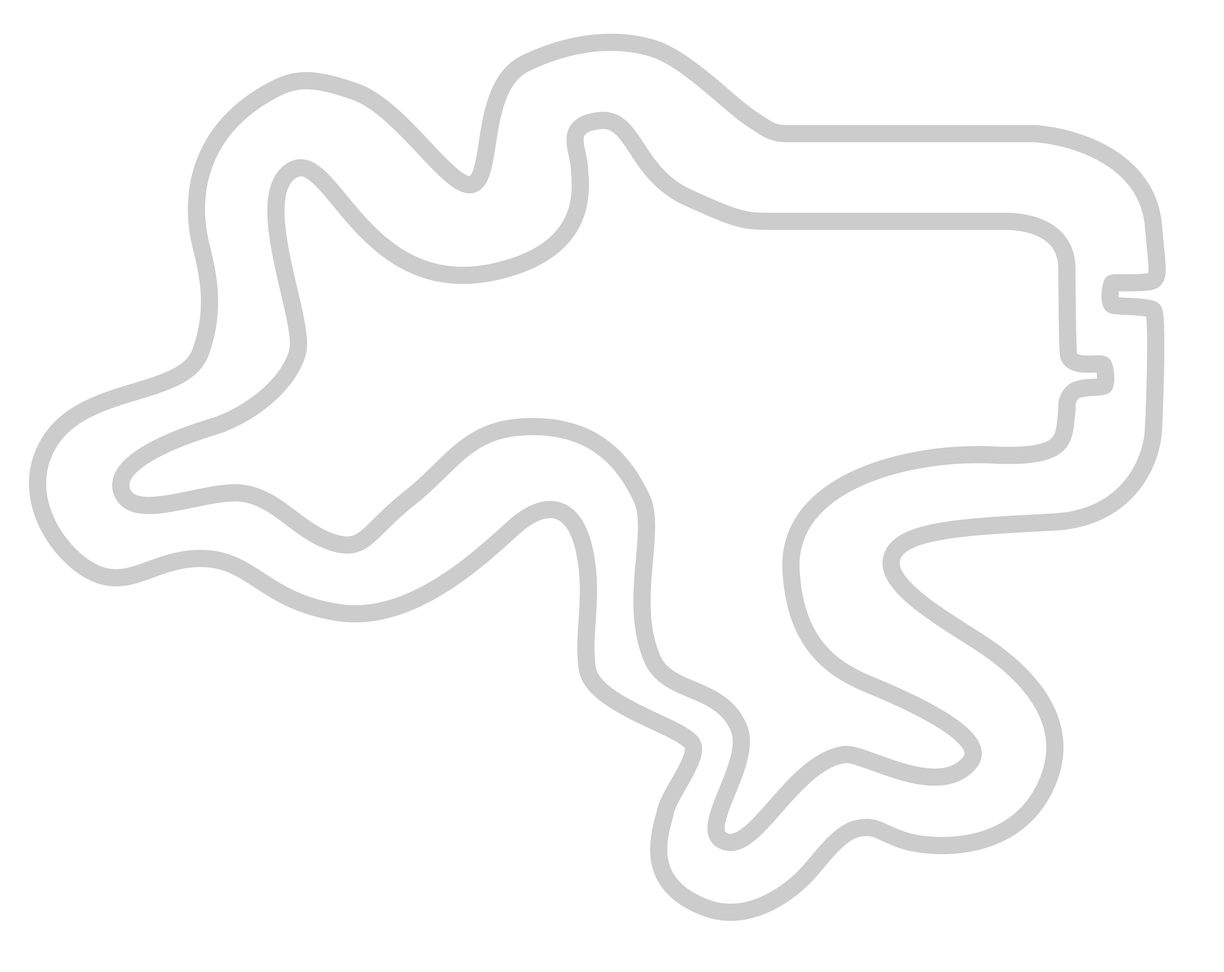
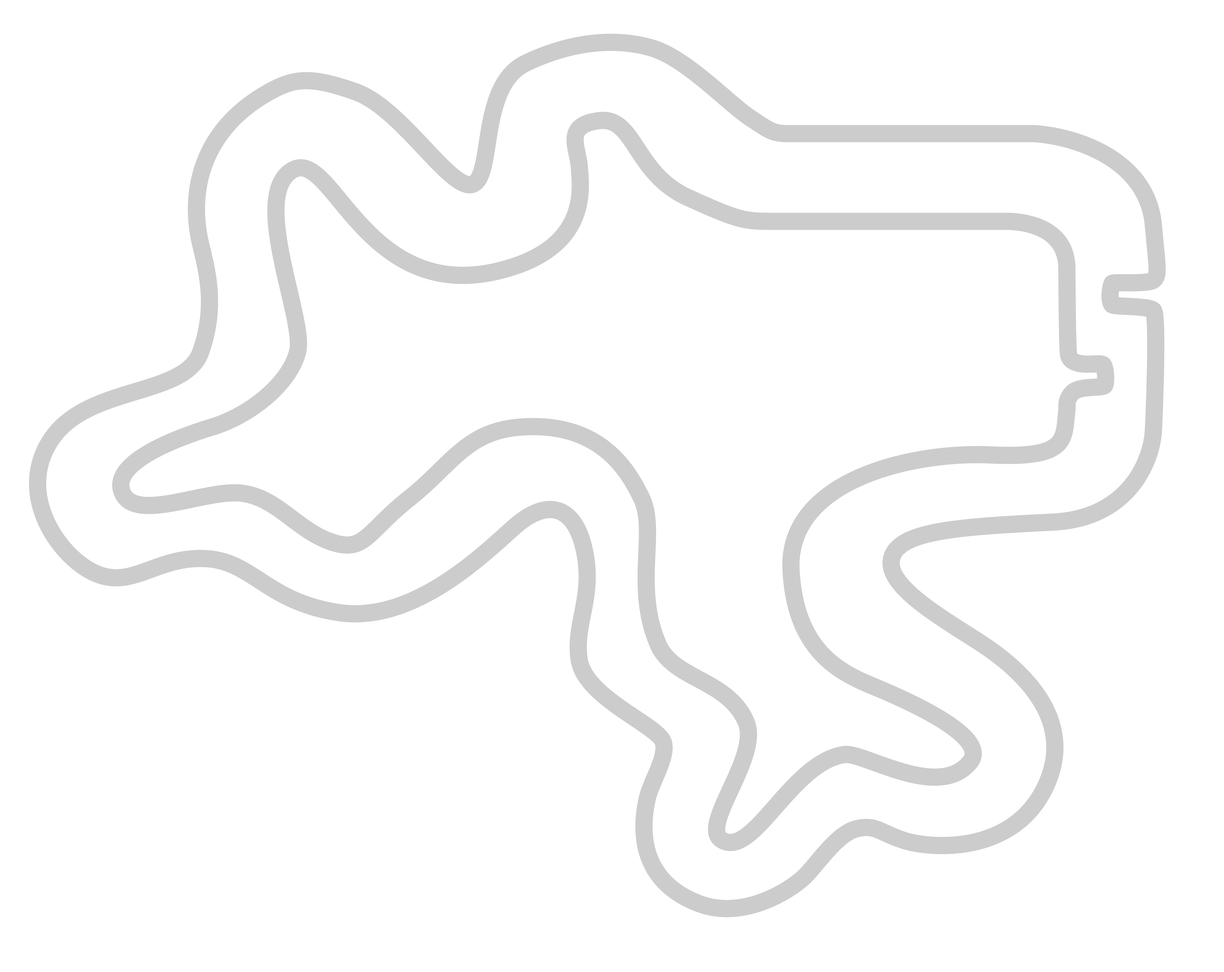
fix chicane narrowness

Changed region(s): [[0.4679, 0.5888, 0.6238, 0.9298], [0.5926, 0.8988, 0.6238, 0.9607]]

diff --git a/js/map/data/track2.js b/js/map/data/track2.js
@@ -1,1 +1,1 @@
-timedTracks.track2 = {"env":{"wall":[{"x":6996,"y":3028,"vertices":[{"x":7246,"y":2893},{"x":6992,"y":3091},{"x":6750,"y":3101}]},{"x":6554,"y":3034,"vertices":[{"x":5791,"y":3069},{"x":7246,"y":2893},{"x":6750,"y":3101},{"x":6451,"y":3133}]},{"x":6144,"y":3131,"vertices":[{"x":5791,"y":3069},{"x":6451,"y":3133},{"x":6191,"y":3190}]},{"x":5942,"y":3191,"vertices":[{"x":6191,"y":3190},{"x":5843,"y":3315},{"x":5791,"y":3069}]},{"x":7184,"y":3017,"vertices":[{"x":7319,"y":3047},{"x":7246,"y":3069},{"x":7158,"y":3086},{"x":6992,"y":3091},{"x":7246,"y":2893}]},{"x":6495,"y":1600,"vertices":[{"x":7205,"y":1745},{"x":5625,"y":1650},{"x":5589,"y":1504},{"x":5625,"y":1497},{"x":7053,"y":1497},{"x":7205,"y":1523},{"x":7319,"y":1578}]},{"x":7344,"y":2297,"vertices":[{"x":7319,"y":1578},{"x":7398,"y":1650},{"x":7442,"y":1745},{"x":7468,"y":1849},{"x":7468,"y":2781},{"x":7447,"y":2893},{"x":7421,"y":2960},{"x":7375,"y":3007},{"x":7319,"y":3047},{"x":7246,"y":2893},{"x":7205,"y":1745}]},{"x":6011,"y":3211,"vertices":[{"x":5933,"y":3147},{"x":6167,"y":3194},{"x":5933,"y":3291}]},{"x":5890,"y":3269,"vertices":[{"x":5933,"y":3291},{"x":5804,"y":3368},{"x":5933,"y":3147}]},{"x":5698,"y":3354,"vertices":[{"x":5419,"y":3463},{"x":5933,"y":3147},{"x":5804,"y":3368},{"x":5703,"y":3463}]},{"x":5584,"y":3495,"vertices":[{"x":5419,"y":3463},{"x":5703,"y":3463},{"x":5631,"y":3560}]},{"x":5547,"y":3559,"vertices":[{"x":5419,"y":3463},{"x":5631,"y":3560},{"x":5591,"y":3653}]},{"x":5526,"y":3629,"vertices":[{"x":5419,"y":3463},{"x":5591,"y":3653},{"x":5568,"y":3770}]},{"x":5446,"y":3801,"vertices":[{"x":5320,"y":4071},{"x":5419,"y":3463},{"x":5568,"y":3770},{"x":5564,"y":3912}]},{"x":5486,"y":4023,"vertices":[{"x":5320,"y":4071},{"x":5564,"y":3912},{"x":5575,"y":4087}]},{"x":5497,"y":4119,"vertices":[{"x":5320,"y":4071},{"x":5575,"y":4087},{"x":5596,"y":4199}]},{"x":5508,"y":4317,"vertices":[{"x":5548,"y":4630},{"x":5320,"y":4071},{"x":5596,"y":4199},{"x":5646,"y":4344}]},{"x":5632,"y":4477,"vertices":[{"x":5548,"y":4630},{"x":5646,"y":4344},{"x":5703,"y":4457}]},{"x":5685,"y":4551,"vertices":[{"x":5548,"y":4630},{"x":5703,"y":4457},{"x":5804,"y":4566}]},{"x":5797,"y":4733,"vertices":[{"x":5933,"y":4998},{"x":5548,"y":4630},{"x":5804,"y":4566},{"x":5933,"y":4651}]},{"x":6009,"y":4801,"vertices":[{"x":5933,"y":4998},{"x":5933,"y":4651},{"x":6162,"y":4753}]},{"x":6376,"y":5089,"vertices":[{"x":5933,"y":4998},{"x":6162,"y":4753},{"x":6322,"y":4821},{"x":6526,"y":4923},{"x":6652,"y":4998},{"x":6744,"y":5077},{"x":6792,"y":5141},{"x":6810,"y":5211},{"x":6800,"y":5259},{"x":6775,"y":5298},{"x":6734,"y":5331},{"x":6667,"y":5358},{"x":6526,"y":5358},{"x":6369,"y":5331},{"x":6233,"y":5285},{"x":6133,"y":5245}]},{"x":6026,"y":5154,"vertices":[{"x":5933,"y":4998},{"x":6133,"y":5245},{"x":6013,"y":5220}]},{"x":5946,"y":5148,"vertices":[{"x":5933,"y":4998},{"x":6013,"y":5220},{"x":5891,"y":5226}]},{"x":5874,"y":5160,"vertices":[{"x":5933,"y":4998},{"x":5891,"y":5226},{"x":5798,"y":5256}]},{"x":5813,"y":5186,"vertices":[{"x":5933,"y":4998},{"x":5798,"y":5256},{"x":5709,"y":5303}]},{"x":5611,"y":5172,"vertices":[{"x":5286,"y":5105},{"x":5933,"y":4998},{"x":5709,"y":5303},{"x":5587,"y":5401}]},{"x":5203,"y":5632,"vertices":[{"x":5449,"y":5544},{"x":5354,"y":5652},{"x":5286,"y":5725},{"x":5195,"y":5796},{"x":5120,"y":5819},{"x":5069,"y":5808},{"x":5037,"y":5778},{"x":5037,"y":5707},{"x":5074,"y":5588},{"x":5120,"y":5454}]},{"x":5340,"y":5358,"vertices":[{"x":5286,"y":5105},{"x":5587,"y":5401},{"x":5449,"y":5544},{"x":5120,"y":5454},{"x":5172,"y":5292}]},{"x":5217,"y":5171,"vertices":[{"x":5286,"y":5105},{"x":5172,"y":5292},{"x":5192,"y":5117}]},{"x":5219,"y":5077,"vertices":[{"x":5286,"y":5105},{"x":5192,"y":5117},{"x":5180,"y":5010}]},{"x":5148,"y":4868,"vertices":[{"x":4994,"y":4513},{"x":5286,"y":5105},{"x":5180,"y":5010},{"x":5131,"y":4903}]},{"x":5052,"y":4740,"vertices":[{"x":4994,"y":4513},{"x":5131,"y":4903},{"x":5031,"y":4805}]},{"x":4735,"y":3964,"vertices":[{"x":4673,"y":3325},{"x":4994,"y":4513},{"x":4549,"y":4071},{"x":4556,"y":3939}]},{"x":4598,"y":3677,"vertices":[{"x":4673,"y":3325},{"x":4556,"y":3939},{"x":4564,"y":3766}]},{"x":4598,"y":3565,"vertices":[{"x":4673,"y":3325},{"x":4564,"y":3766},{"x":4556,"y":3603}]},{"x":4588,"y":3462,"vertices":[{"x":4673,"y":3325},{"x":4556,"y":3603},{"x":4535,"y":3459}]},{"x":4569,"y":3370,"vertices":[{"x":4535,"y":3459},{"x":4498,"y":3325},{"x":4673,"y":3325}]},{"x":4770,"y":4463,"vertices":[{"x":4994,"y":4513},{"x":5031,"y":4805},{"x":4909,"y":4739},{"x":4803,"y":4678},{"x":4704,"y":4610},{"x":4634,"y":4532},{"x":4582,"y":4451},{"x":4549,"y":4330},{"x":4540,"y":4199},{"x":4549,"y":4071}]},{"x":4555,"y":3374,"vertices":[{"x":4658,"y":3402},{"x":4522,"y":3402},{"x":4485,"y":3317}]},{"x":4527,"y":3318,"vertices":[{"x":4485,"y":3317},{"x":4438,"y":3236},{"x":4658,"y":3402}]},{"x":4493,"y":3267,"vertices":[{"x":4658,"y":3402},{"x":4438,"y":3236},{"x":4383,"y":3164}]},{"x":4434,"y":3094,"vertices":[{"x":4322,"y":2769},{"x":4658,"y":3402},{"x":4383,"y":3164},{"x":4322,"y":3108}]},{"x":4290,"y":2974,"vertices":[{"x":4322,"y":2769},{"x":4322,"y":3108},{"x":4226,"y":3046}]},{"x":4229,"y":2941,"vertices":[{"x":4322,"y":2769},{"x":4226,"y":3046},{"x":4140,"y":3007}]},{"x":4163,"y":2914,"vertices":[{"x":4322,"y":2769},{"x":4140,"y":3007},{"x":4028,"y":2966}]},{"x":4076,"y":2889,"vertices":[{"x":4322,"y":2769},{"x":4028,"y":2966},{"x":3878,"y":2932}]},{"x":3852,"y":2805,"vertices":[{"x":3426,"y":2697},{"x":4322,"y":2769},{"x":3878,"y":2932},{"x":3746,"y":2917}]},{"x":3586,"y":2847,"vertices":[{"x":3426,"y":2697},{"x":3746,"y":2917},{"x":3585,"y":2927}]},{"x":3479,"y":2866,"vertices":[{"x":3426,"y":2697},{"x":3585,"y":2927},{"x":3426,"y":2973}]},{"x":3383,"y":2905,"vertices":[{"x":3426,"y":2697},{"x":3426,"y":2973},{"x":3297,"y":3045}]},{"x":3286,"y":2970,"vertices":[{"x":3426,"y":2697},{"x":3297,"y":3045},{"x":3136,"y":3167}]},{"x":2707,"y":3574,"vertices":[{"x":2836,"y":3455},{"x":2694,"y":3593},{"x":2591,"y":3673}]},{"x":2723,"y":3314,"vertices":[{"x":2397,"y":3329},{"x":3426,"y":2697},{"x":3136,"y":3167},{"x":2836,"y":3455},{"x":2591,"y":3673},{"x":2483,"y":3722},{"x":2397,"y":3730},{"x":2296,"y":3705},{"x":2203,"y":3653},{"x":2104,"y":3579}]},{"x":2162,"y":3466,"vertices":[{"x":2397,"y":3329},{"x":2104,"y":3579},{"x":1985,"y":3491}]},{"x":1969,"y":3326,"vertices":[{"x":1556,"y":3154},{"x":2397,"y":3329},{"x":1985,"y":3491},{"x":1855,"y":3418}]},{"x":1706,"y":3316,"vertices":[{"x":1556,"y":3154},{"x":1855,"y":3418},{"x":1708,"y":3376}]},{"x":1620,"y":3300,"vertices":[{"x":1556,"y":3154},{"x":1708,"y":3376},{"x":1597,"y":3370}]},{"x":1532,"y":3304,"vertices":[{"x":1556,"y":3154},{"x":1597,"y":3370},{"x":1444,"y":3388}]},{"x":1602,"y":2962,"vertices":[{"x":1556,"y":3154},{"x":1556,"y":2897},{"x":1694,"y":2836}]},{"x":1690,"y":2920,"vertices":[{"x":1556,"y":3154},{"x":1694,"y":2836},{"x":1821,"y":2769}]},{"x":1910,"y":2873,"vertices":[{"x":2296,"y":2769},{"x":1556,"y":3154},{"x":1821,"y":2769},{"x":1922,"y":2697}]},{"x":2074,"y":2695,"vertices":[{"x":2296,"y":2769},{"x":1922,"y":2697},{"x":2005,"y":2618}]},{"x":2119,"y":2641,"vertices":[{"x":2296,"y":2769},{"x":2005,"y":2618},{"x":2056,"y":2536}]},{"x":2149,"y":2581,"vertices":[{"x":2296,"y":2769},{"x":2056,"y":2536},{"x":2096,"y":2439}]},{"x":2225,"y":2390,"vertices":[{"x":2296,"y":1990},{"x":2296,"y":2769},{"x":2096,"y":2439},{"x":2115,"y":2342}]},{"x":2177,"y":2199,"vertices":[{"x":2296,"y":1990},{"x":2115,"y":2342},{"x":2120,"y":2266}]},{"x":2179,"y":2132,"vertices":[{"x":2120,"y":2266},{"x":2120,"y":2141},{"x":2296,"y":1990}]},{"x":1244,"y":3213,"vertices":[{"x":1556,"y":3154},{"x":1444,"y":3388},{"x":1272,"y":3428},{"x":1133,"y":3458},{"x":1012,"y":3458},{"x":935,"y":3428},{"x":902,"y":3388},{"x":891,"y":3329},{"x":891,"y":3283},{"x":909,"y":3227},{"x":930,"y":3190},{"x":966,"y":3154},{"x":1012,"y":3116},{"x":1089,"y":3073},{"x":1188,"y":3031},{"x":1325,"y":2980},{"x":1556,"y":2897}]},{"x":2201,"y":2071,"vertices":[{"x":2366,"y":1880},{"x":2124,"y":2224},{"x":2112,"y":2110}]},{"x":2189,"y":1981,"vertices":[{"x":2366,"y":1880},{"x":2112,"y":2110},{"x":2089,"y":1954}]},{"x":2024,"y":1612,"vertices":[{"x":2053,"y":1770},{"x":2023,"y":1619},{"x":1997,"y":1446}]},{"x":2127,"y":1373,"vertices":[{"x":2053,"y":1770},{"x":1997,"y":1446},{"x":1997,"y":1307},{"x":2023,"y":1204},{"x":2068,"y":1145},{"x":2114,"y":1117},{"x":2180,"y":1117},{"x":2246,"y":1163},{"x":2322,"y":1259}]},{"x":2257,"y":1653,"vertices":[{"x":2366,"y":1880},{"x":2089,"y":1954},{"x":2053,"y":1770},{"x":2322,"y":1259},{"x":2426,"y":1388}]},{"x":2464,"y":1623,"vertices":[{"x":2366,"y":1880},{"x":2426,"y":1388},{"x":2601,"y":1601}]},{"x":2564,"y":1728,"vertices":[{"x":2366,"y":1880},{"x":2601,"y":1601},{"x":2725,"y":1704}]},{"x":2653,"y":1793,"vertices":[{"x":2366,"y":1880},{"x":2725,"y":1704},{"x":2867,"y":1794}]},{"x":2851,"y":1905,"vertices":[{"x":3288,"y":2044},{"x":2366,"y":1880},{"x":2867,"y":1794},{"x":2990,"y":1846}]},{"x":3139,"y":1923,"vertices":[{"x":3288,"y":2044},{"x":2990,"y":1846},{"x":3138,"y":1880}]},{"x":3238,"y":1939,"vertices":[{"x":3288,"y":2044},{"x":3138,"y":1880},{"x":3288,"y":1892}]},{"x":3361,"y":1933,"vertices":[{"x":3288,"y":2044},{"x":3288,"y":1892},{"x":3508,"y":1862}]},{"x":3630,"y":1893,"vertices":[{"x":4027,"y":1812},{"x":3288,"y":2044},{"x":3508,"y":1862},{"x":3685,"y":1812}]},{"x":3852,"y":1787,"vertices":[{"x":4027,"y":1812},{"x":3685,"y":1812},{"x":3845,"y":1738}]},{"x":3940,"y":1737,"vertices":[{"x":4027,"y":1812},{"x":3845,"y":1738},{"x":3947,"y":1660}]},{"x":4000,"y":1679,"vertices":[{"x":4027,"y":1812},{"x":3947,"y":1660},{"x":4027,"y":1566}]},{"x":4137,"y":1561,"vertices":[{"x":4347,"y":1388},{"x":4027,"y":1812},{"x":4027,"y":1566},{"x":4074,"y":1464}]},{"x":4173,"y":1398,"vertices":[{"x":4347,"y":1388},{"x":4074,"y":1464},{"x":4097,"y":1342}]},{"x":4180,"y":1321,"vertices":[{"x":4347,"y":1388},{"x":4097,"y":1342},{"x":4097,"y":1233}]},{"x":4522,"y":1240,"vertices":[{"x":4347,"y":1388},{"x":4548,"y":1098},{"x":4670,"y":1233}]},{"x":4648,"y":1393,"vertices":[{"x":4828,"y":1566},{"x":4347,"y":1388},{"x":4670,"y":1233},{"x":4828,"y":1351}]},{"x":4885,"y":1448,"vertices":[{"x":4828,"y":1566},{"x":4828,"y":1351},{"x":5000,"y":1426}]},{"x":5013,"y":1489,"vertices":[{"x":4828,"y":1566},{"x":5000,"y":1426},{"x":5210,"y":1475}]},{"x":5685,"y":1515,"vertices":[{"x":5551,"y":1498},{"x":5706,"y":1498},{"x":5797,"y":1549}]},{"x":5309,"y":1527,"vertices":[{"x":5797,"y":1549},{"x":4828,"y":1566},{"x":5210,"y":1475},{"x":5551,"y":1498}]},{"x":4279,"y":1072,"vertices":[{"x":4347,"y":1388},{"x":4097,"y":1233},{"x":4074,"y":1000},{"x":4068,"y":911},{"x":4080,"y":847},{"x":4126,"y":805},{"x":4192,"y":794},{"x":4275,"y":805},{"x":4347,"y":842},{"x":4405,"y":899},{"x":4452,"y":961},{"x":4548,"y":1098}]},{"x":5261,"y":709,"vertices":[{"x":5387,"y":814},{"x":5261,"y":722},{"x":5135,"y":592}]},{"x":5334,"y":538,"vertices":[{"x":4866,"y":1},{"x":5945,"y":856},{"x":5694,"y":870},{"x":5503,"y":860},{"x":5387,"y":814},{"x":5135,"y":592},{"x":4980,"y":447}]},{"x":4877,"y":259,"vertices":[{"x":4866,"y":1},{"x":4980,"y":447},{"x":4786,"y":328}]},{"x":4740,"y":194,"vertices":[{"x":4866,"y":1},{"x":4786,"y":328},{"x":4568,"y":254}]},{"x":4426,"y":96,"vertices":[{"x":3917,"y":1},{"x":4866,"y":1},{"x":4568,"y":254},{"x":4345,"y":228}]},{"x":4118,"y":157,"vertices":[{"x":3917,"y":1},{"x":4345,"y":228},{"x":4093,"y":243}]},{"x":3976,"y":173,"vertices":[{"x":3917,"y":1},{"x":4093,"y":243},{"x":3917,"y":276}]},{"x":3851,"y":209,"vertices":[{"x":3917,"y":1},{"x":3917,"y":276},{"x":3720,"y":350}]},{"x":3470,"y":300,"vertices":[{"x":2865,"y":421},{"x":3917,"y":1},{"x":3720,"y":350},{"x":3563,"y":482}]},{"x":3150,"y":639,"vertices":[{"x":3027,"y":961},{"x":2909,"y":834},{"x":2865,"y":421},{"x":3563,"y":482},{"x":3475,"y":639}]},{"x":3265,"y":932,"vertices":[{"x":3257,"y":1207},{"x":3027,"y":961},{"x":3475,"y":639},{"x":3434,"y":825}]},{"x":3360,"y":1086,"vertices":[{"x":3434,"y":825},{"x":3416,"y":1066},{"x":3407,"y":1132},{"x":3382,"y":1193},{"x":3354,"y":1226},{"x":3319,"y":1241},{"x":3294,"y":1234},{"x":3257,"y":1207}]},{"x":1686,"y":4089,"vertices":[{"x":1465,"y":4237},{"x":1700,"y":3940},{"x":1893,"y":4089}]},{"x":1994,"y":4308,"vertices":[{"x":2532,"y":4603},{"x":1465,"y":4237},{"x":1893,"y":4089},{"x":2125,"y":4197}]},{"x":2365,"y":4346,"vertices":[{"x":2532,"y":4603},{"x":2125,"y":4197},{"x":2438,"y":4237}]},{"x":2565,"y":4351,"vertices":[{"x":2532,"y":4603},{"x":2438,"y":4237},{"x":2725,"y":4212}]},{"x":3136,"y":4145,"vertices":[{"x":2980,"y":4132},{"x":3214,"y":4000},{"x":3214,"y":4302}]},{"x":2858,"y":4336,"vertices":[{"x":3214,"y":4302},{"x":2532,"y":4603},{"x":2725,"y":4212},{"x":2980,"y":4132}]},{"x":2884,"y":666,"vertices":[{"x":2899,"y":378},{"x":2998,"y":918},{"x":2755,"y":702}]},{"x":2746,"y":556,"vertices":[{"x":2899,"y":378},{"x":2755,"y":702},{"x":2584,"y":587}]},{"x":2634,"y":494,"vertices":[{"x":2899,"y":378},{"x":2584,"y":587},{"x":2420,"y":517}]},{"x":2411,"y":355,"vertices":[{"x":2091,"y":141},{"x":2899,"y":378},{"x":2420,"y":517},{"x":2197,"y":492}]},{"x":2104,"y":387,"vertices":[{"x":2091,"y":141},{"x":2197,"y":492},{"x":2023,"y":529}]},{"x":1976,"y":439,"vertices":[{"x":2091,"y":141},{"x":2023,"y":529},{"x":1815,"y":647}]},{"x":1671,"y":625,"vertices":[{"x":1203,"y":948},{"x":2091,"y":141},{"x":1815,"y":647},{"x":1616,"y":838}]},{"x":1438,"y":931,"vertices":[{"x":1203,"y":948},{"x":1616,"y":838},{"x":1495,"y":1006}]},{"x":1377,"y":1039,"vertices":[{"x":1203,"y":948},{"x":1495,"y":1006},{"x":1432,"y":1163}]},{"x":1347,"y":1157,"vertices":[{"x":1203,"y":948},{"x":1432,"y":1163},{"x":1406,"y":1360}]},{"x":1266,"y":1476,"vertices":[{"x":1154,"y":2027},{"x":1203,"y":948},{"x":1406,"y":1360},{"x":1418,"y":1516}]},{"x":1348,"y":1774,"vertices":[{"x":1154,"y":2027},{"x":1418,"y":1516},{"x":1473,"y":1778}]},{"x":1378,"y":1914,"vertices":[{"x":1473,"y":1778},{"x":1507,"y":1937},{"x":1154,"y":2027}]},{"x":948,"y":2424,"vertices":[{"x":1,"y":2893},{"x":1154,"y":2027},{"x":1507,"y":1937},{"x":1520,"y":2090},{"x":1507,"y":2245},{"x":1465,"y":2377},{"x":1419,"y":2436},{"x":1282,"y":2524},{"x":1054,"y":2622},{"x":781,"y":2733}]},{"x":467,"y":2816,"vertices":[{"x":1,"y":2893},{"x":781,"y":2733},{"x":620,"y":2821}]},{"x":369,"y":2879,"vertices":[{"x":1,"y":2893},{"x":620,"y":2821},{"x":485,"y":2922}]},{"x":294,"y":2950,"vertices":[{"x":1,"y":2893},{"x":485,"y":2922},{"x":396,"y":3035}]},{"x":246,"y":3034,"vertices":[{"x":1,"y":2893},{"x":396,"y":3035},{"x":340,"y":3173}]},{"x":223,"y":3134,"vertices":[{"x":1,"y":2893},{"x":340,"y":3173},{"x":329,"y":3337}]},{"x":233,"y":3254,"vertices":[{"x":1,"y":2893},{"x":329,"y":3337},{"x":370,"y":3532}]},{"x":287,"y":3638,"vertices":[{"x":432,"y":4381},{"x":1,"y":2893},{"x":370,"y":3532},{"x":432,"y":3693}]},{"x":453,"y":3962,"vertices":[{"x":432,"y":4381},{"x":432,"y":3693},{"x":496,"y":3812}]},{"x":497,"y":4030,"vertices":[{"x":432,"y":4381},{"x":496,"y":3812},{"x":562,"y":3897}]},{"x":549,"y":4081,"vertices":[{"x":432,"y":4381},{"x":562,"y":3897},{"x":652,"y":3964}]},{"x":615,"y":4115,"vertices":[{"x":432,"y":4381},{"x":652,"y":3964},{"x":760,"y":3999}]},{"x":690,"y":4126,"vertices":[{"x":432,"y":4381},{"x":760,"y":3999},{"x":877,"y":3999}]},{"x":955,"y":4184,"vertices":[{"x":1465,"y":4237},{"x":432,"y":4381},{"x":877,"y":3999},{"x":1031,"y":3961}]},{"x":1398,"y":4010,"vertices":[{"x":1031,"y":3961},{"x":1203,"y":3905},{"x":1402,"y":3859},{"x":1562,"y":3868},{"x":1700,"y":3940},{"x":1465,"y":4237}]},{"x":6596,"y":3948,"vertices":[{"x":6862,"y":4402},{"x":6556,"y":4209},{"x":6336,"y":4044},{"x":6257,"y":3952},{"x":6257,"y":3858},{"x":6294,"y":3774},{"x":6385,"y":3690},{"x":6538,"y":3638},{"x":6793,"y":3609}]},{"x":6937,"y":3871,"vertices":[{"x":6862,"y":4402},{"x":6793,"y":3609},{"x":7157,"y":3601}]},{"x":7310,"y":4135,"vertices":[{"x":7773,"y":4234},{"x":7254,"y":4710},{"x":6862,"y":4402},{"x":7157,"y":3601},{"x":7490,"y":3590}]},{"x":7646,"y":3786,"vertices":[{"x":7773,"y":4234},{"x":7490,"y":3590},{"x":7676,"y":3533}]},{"x":7911,"y":3652,"vertices":[{"x":8282,"y":3205},{"x":7773,"y":4234},{"x":7676,"y":3533},{"x":7851,"y":3422}]},{"x":8042,"y":3290,"vertices":[{"x":8282,"y":3205},{"x":7851,"y":3422},{"x":7992,"y":3243}]},{"x":8115,"y":3165,"vertices":[{"x":8282,"y":3205},{"x":7992,"y":3243},{"x":8072,"y":3048}]},{"x":8150,"y":3046,"vertices":[{"x":8282,"y":3205},{"x":8072,"y":3048},{"x":8095,"y":2884}]},{"x":8199,"y":2060,"vertices":[{"x":8282,"y":635},{"x":8282,"y":3205},{"x":8095,"y":2884},{"x":8095,"y":1586}]},{"x":8146,"y":1210,"vertices":[{"x":8282,"y":635},{"x":8095,"y":1586},{"x":8062,"y":1410}]},{"x":8118,"y":1109,"vertices":[{"x":8282,"y":635},{"x":8062,"y":1410},{"x":8009,"y":1282}]},{"x":8058,"y":1010,"vertices":[{"x":8282,"y":635},{"x":8009,"y":1282},{"x":7884,"y":1112}]},{"x":7964,"y":916,"vertices":[{"x":8282,"y":635},{"x":7884,"y":1112},{"x":7725,"y":1002}]},{"x":7667,"y":718,"vertices":[{"x":7039,"y":500},{"x":8282,"y":635},{"x":7725,"y":1002},{"x":7553,"y":927}]},{"x":7334,"y":772,"vertices":[{"x":7039,"y":500},{"x":7553,"y":927},{"x":7411,"y":889}]},{"x":7218,"y":753,"vertices":[{"x":7039,"y":500},{"x":7411,"y":889},{"x":7205,"y":869}]},{"x":6410,"y":703,"vertices":[{"x":7205,"y":869},{"x":5664,"y":869},{"x":5631,"y":566},{"x":7039,"y":500}]},{"x":3651,"y":3654,"vertices":[{"x":3324,"y":3912},{"x":3612,"y":3651},{"x":3781,"y":3526},{"x":3835,"y":3508},{"x":3891,"y":3505}]},{"x":3840,"y":3927,"vertices":[{"x":3324,"y":3912},{"x":3891,"y":3505},{"x":3990,"y":3562},{"x":4051,"y":3639},{"x":4098,"y":3733},{"x":4139,"y":3949},{"x":4147,"y":4196},{"x":4121,"y":4396}]},{"x":3855,"y":4298,"vertices":[{"x":3324,"y":3912},{"x":4121,"y":4396},{"x":4121,"y":4586}]},{"x":3568,"y":4646,"vertices":[{"x":3612,"y":5531},{"x":2962,"y":4182},{"x":3324,"y":3912},{"x":4121,"y":4586},{"x":4186,"y":4706}]},{"x":4623,"y":5146,"vertices":[{"x":4860,"y":5155},{"x":4860,"y":5200},{"x":4712,"y":5470},{"x":4284,"y":4809},{"x":4491,"y":4928}]},{"x":4713,"y":5050,"vertices":[{"x":4491,"y":4928},{"x":4656,"y":5003},{"x":4769,"y":5062},{"x":4835,"y":5112},{"x":4860,"y":5155}]},{"x":4551,"y":5314,"vertices":[{"x":4284,"y":4809},{"x":4712,"y":5470},{"x":4656,"y":5663}]},{"x":4185,"y":5354,"vertices":[{"x":3612,"y":5531},{"x":4186,"y":4706},{"x":4284,"y":4809},{"x":4656,"y":5663},{"x":4631,"y":5848}]},{"x":4280,"y":5972,"vertices":[{"x":4563,"y":6522},{"x":3612,"y":5531},{"x":4631,"y":5848},{"x":4650,"y":6003}]},{"x":4642,"y":6217,"vertices":[{"x":4563,"y":6522},{"x":4650,"y":6003},{"x":4712,"y":6127}]},{"x":4694,"y":6288,"vertices":[{"x":4563,"y":6522},{"x":4712,"y":6127},{"x":4808,"y":6216}]},{"x":4771,"y":6335,"vertices":[{"x":4563,"y":6522},{"x":4808,"y":6216},{"x":4942,"y":6266}]},{"x":4875,"y":6362,"vertices":[{"x":4563,"y":6522},{"x":4942,"y":6266},{"x":5121,"y":6297}]},{"x":5257,"y":6442,"vertices":[{"x":5946,"y":6555},{"x":4563,"y":6522},{"x":5121,"y":6297},{"x":5317,"y":6266}]},{"x":5583,"y":6335,"vertices":[{"x":5946,"y":6555},{"x":5317,"y":6266},{"x":5487,"y":6184}]},{"x":5683,"y":6275,"vertices":[{"x":5946,"y":6555},{"x":5487,"y":6184},{"x":5617,"y":6086}]},{"x":5844,"y":5850,"vertices":[{"x":5730,"y":5968},{"x":5856,"y":5834},{"x":5946,"y":5749}]},{"x":5996,"y":5818,"vertices":[{"x":5730,"y":5968},{"x":5946,"y":5749},{"x":6021,"y":5714},{"x":6087,"y":5718},{"x":6252,"y":5784}]},{"x":6160,"y":5864,"vertices":[{"x":5730,"y":5968},{"x":6252,"y":5784},{"x":6498,"y":5841}]},{"x":6450,"y":6105,"vertices":[{"x":7732,"y":5868},{"x":5946,"y":6555},{"x":5617,"y":6086},{"x":5730,"y":5968},{"x":6498,"y":5841},{"x":6753,"y":5841}]},{"x":7147,"y":5834,"vertices":[{"x":7732,"y":5868},{"x":6753,"y":5841},{"x":6957,"y":5792}]},{"x":7269,"y":5790,"vertices":[{"x":7732,"y":5868},{"x":6957,"y":5792},{"x":7117,"y":5711}]},{"x":7361,"y":5730,"vertices":[{"x":7732,"y":5868},{"x":7117,"y":5711},{"x":7233,"y":5610}]},{"x":7433,"y":5647,"vertices":[{"x":7732,"y":5868},{"x":7233,"y":5610},{"x":7333,"y":5464}]},{"x":7483,"y":5549,"vertices":[{"x":7732,"y":5868},{"x":7333,"y":5464},{"x":7383,"y":5314}]},{"x":7633,"y":5219,"vertices":[{"x":7813,"y":4537},{"x":7732,"y":5868},{"x":7383,"y":5314},{"x":7403,"y":5166}]},{"x":7540,"y":4922,"vertices":[{"x":7813,"y":4537},{"x":7403,"y":5166},{"x":7403,"y":5062}]},{"x":7529,"y":4838,"vertices":[{"x":7813,"y":4537},{"x":7403,"y":5062},{"x":7372,"y":4916}]},{"x":7493,"y":4745,"vertices":[{"x":7813,"y":4537},{"x":7372,"y":4916},{"x":7294,"y":4782}]},{"x":7427,"y":4653,"vertices":[{"x":7294,"y":4782},{"x":7174,"y":4641},{"x":7813,"y":4537}]},{"x":7951,"y":1993,"vertices":[{"x":7824,"y":1909},{"x":8119,"y":1909},{"x":8119,"y":2076},{"x":7824,"y":2076},{"x":7779,"y":2061},{"x":7779,"y":1932}]},{"x":7598,"y":2563,"vertices":[{"x":7700,"y":2479},{"x":7745,"y":2509},{"x":7745,"y":2622},{"x":7700,"y":2646},{"x":7457,"y":2646},{"x":7457,"y":2479}]}],"path":[{"x":4649,"y":2844,"vertices":[{"x":5840,"y":1198},{"x":5314,"y":1163},{"x":4567,"y":592},{"x":3856,"y":705},{"x":3624,"y":1481},{"x":3122,"y":1481},{"x":2348,"y":874},{"x":1739,"y":1032},{"x":1691,"y":1481},{"x":1789,"y":2230},{"x":1510,"y":2650},{"x":808,"y":3019},{"x":695,"y":3328},{"x":858,"y":3637},{"x":1263,"y":3664},{"x":1843,"y":3765},{"x":2429,"y":3991},{"x":3255,"y":3637},{"x":3779,"y":3239},{"x":4216,"y":3370},{"x":4332,"y":3750},{"x":4356,"y":4506},{"x":4542,"y":4823},{"x":5000,"y":5069},{"x":4873,"y":5874},{"x":5165,"y":6019},{"x":5670,"y":5654},{"x":6140,"y":5514},{"x":6703,"y":5573},{"x":7107,"y":5285},{"x":7024,"y":4904},{"x":6069,"y":4306},{"x":5920,"y":3839},{"x":6250,"y":3480},{"x":7387,"y":3325},{"x":7785,"y":2900},{"x":7770,"y":1421},{"x":7506,"y":1216},{"x":6063,"y":1198}]}],"checkpoint":[{"x":5831,"y":1188,"vertices":[{"x":0,"y":0},{"x":0,"y":-710},{"x":102,"y":-710},{"x":102,"y":0}],"index":0}],"spawn":[{"x":6717,"y":1188,"angle":-3.141592653589793}]}}
+timedTracks.track2 = {"env":{"wall":[{"x":6996,"y":3028,"vertices":[{"x":7246,"y":2893},{"x":6992,"y":3091},{"x":6750,"y":3101}]},{"x":6554,"y":3034,"vertices":[{"x":5791,"y":3069},{"x":7246,"y":2893},{"x":6750,"y":3101},{"x":6451,"y":3133}]},{"x":6144,"y":3131,"vertices":[{"x":5791,"y":3069},{"x":6451,"y":3133},{"x":6191,"y":3190}]},{"x":5942,"y":3191,"vertices":[{"x":6191,"y":3190},{"x":5843,"y":3315},{"x":5791,"y":3069}]},{"x":7184,"y":3017,"vertices":[{"x":7319,"y":3047},{"x":7246,"y":3069},{"x":7158,"y":3086},{"x":6992,"y":3091},{"x":7246,"y":2893}]},{"x":6495,"y":1600,"vertices":[{"x":7205,"y":1745},{"x":5625,"y":1650},{"x":5589,"y":1504},{"x":5625,"y":1497},{"x":7053,"y":1497},{"x":7205,"y":1523},{"x":7319,"y":1578}]},{"x":7344,"y":2297,"vertices":[{"x":7319,"y":1578},{"x":7398,"y":1650},{"x":7442,"y":1745},{"x":7468,"y":1849},{"x":7468,"y":2781},{"x":7447,"y":2893},{"x":7421,"y":2960},{"x":7375,"y":3007},{"x":7319,"y":3047},{"x":7246,"y":2893},{"x":7205,"y":1745}]},{"x":6011,"y":3211,"vertices":[{"x":5933,"y":3147},{"x":6167,"y":3194},{"x":5933,"y":3291}]},{"x":5890,"y":3269,"vertices":[{"x":5933,"y":3291},{"x":5804,"y":3368},{"x":5933,"y":3147}]},{"x":5698,"y":3354,"vertices":[{"x":5419,"y":3463},{"x":5933,"y":3147},{"x":5804,"y":3368},{"x":5703,"y":3463}]},{"x":5584,"y":3495,"vertices":[{"x":5419,"y":3463},{"x":5703,"y":3463},{"x":5631,"y":3560}]},{"x":5547,"y":3559,"vertices":[{"x":5419,"y":3463},{"x":5631,"y":3560},{"x":5591,"y":3653}]},{"x":5526,"y":3629,"vertices":[{"x":5419,"y":3463},{"x":5591,"y":3653},{"x":5568,"y":3770}]},{"x":5446,"y":3801,"vertices":[{"x":5320,"y":4071},{"x":5419,"y":3463},{"x":5568,"y":3770},{"x":5564,"y":3912}]},{"x":5486,"y":4023,"vertices":[{"x":5320,"y":4071},{"x":5564,"y":3912},{"x":5575,"y":4087}]},{"x":5497,"y":4119,"vertices":[{"x":5320,"y":4071},{"x":5575,"y":4087},{"x":5596,"y":4199}]},{"x":5508,"y":4317,"vertices":[{"x":5548,"y":4630},{"x":5320,"y":4071},{"x":5596,"y":4199},{"x":5646,"y":4344}]},{"x":5632,"y":4477,"vertices":[{"x":5548,"y":4630},{"x":5646,"y":4344},{"x":5703,"y":4457}]},{"x":5685,"y":4551,"vertices":[{"x":5548,"y":4630},{"x":5703,"y":4457},{"x":5804,"y":4566}]},{"x":5797,"y":4733,"vertices":[{"x":5933,"y":4998},{"x":5548,"y":4630},{"x":5804,"y":4566},{"x":5933,"y":4651}]},{"x":6009,"y":4801,"vertices":[{"x":5933,"y":4998},{"x":5933,"y":4651},{"x":6162,"y":4753}]},{"x":6376,"y":5089,"vertices":[{"x":5933,"y":4998},{"x":6162,"y":4753},{"x":6322,"y":4821},{"x":6526,"y":4923},{"x":6652,"y":4998},{"x":6744,"y":5077},{"x":6792,"y":5141},{"x":6810,"y":5211},{"x":6800,"y":5259},{"x":6775,"y":5298},{"x":6734,"y":5331},{"x":6667,"y":5358},{"x":6526,"y":5358},{"x":6369,"y":5331},{"x":6233,"y":5285},{"x":6133,"y":5245}]},{"x":6026,"y":5154,"vertices":[{"x":5933,"y":4998},{"x":6133,"y":5245},{"x":6013,"y":5220}]},{"x":5946,"y":5148,"vertices":[{"x":5933,"y":4998},{"x":6013,"y":5220},{"x":5891,"y":5226}]},{"x":5874,"y":5160,"vertices":[{"x":5933,"y":4998},{"x":5891,"y":5226},{"x":5798,"y":5256}]},{"x":5813,"y":5186,"vertices":[{"x":5933,"y":4998},{"x":5798,"y":5256},{"x":5709,"y":5303}]},{"x":5346,"y":5419,"vertices":[{"x":5143,"y":5465},{"x":5205,"y":5284},{"x":5587,"y":5401},{"x":5449,"y":5544}]},{"x":5208,"y":5637,"vertices":[{"x":5449,"y":5544},{"x":5354,"y":5652},{"x":5286,"y":5725},{"x":5195,"y":5796},{"x":5120,"y":5819},{"x":5069,"y":5808},{"x":5037,"y":5778},{"x":5045,"y":5695},{"x":5084,"y":5595},{"x":5143,"y":5465}]},{"x":5541,"y":5160,"vertices":[{"x":5534,"y":4962},{"x":5933,"y":4998},{"x":5709,"y":5303},{"x":5587,"y":5401},{"x":5205,"y":5284},{"x":5248,"y":5070}]},{"x":5339,"y":4998,"vertices":[{"x":5534,"y":4962},{"x":5248,"y":5070},{"x":5236,"y":4962}]},{"x":5319,"y":4927,"vertices":[{"x":5534,"y":4962},{"x":5236,"y":4962},{"x":5187,"y":4856}]},{"x":5174,"y":4708,"vertices":[{"x":4855,"y":4330},{"x":5534,"y":4962},{"x":5187,"y":4856},{"x":5087,"y":4757}]},{"x":4598,"y":3565,"vertices":[{"x":4673,"y":3325},{"x":4564,"y":3766},{"x":4556,"y":3603}]},{"x":4588,"y":3462,"vertices":[{"x":4673,"y":3325},{"x":4556,"y":3603},{"x":4535,"y":3459}]},{"x":4569,"y":3370,"vertices":[{"x":4535,"y":3459},{"x":4498,"y":3325},{"x":4673,"y":3325}]},{"x":4684,"y":3995,"vertices":[{"x":4659,"y":4463},{"x":4596,"y":4330},{"x":4564,"y":4135},{"x":4564,"y":3766},{"x":4673,"y":3325},{"x":4855,"y":4330}]},{"x":4864,"y":4534,"vertices":[{"x":4855,"y":4330},{"x":5087,"y":4757},{"x":4973,"y":4705},{"x":4878,"y":4657},{"x":4780,"y":4592},{"x":4709,"y":4528},{"x":4659,"y":4463}]},{"x":4555,"y":3374,"vertices":[{"x":4658,"y":3402},{"x":4522,"y":3402},{"x":4485,"y":3317}]},{"x":4527,"y":3318,"vertices":[{"x":4485,"y":3317},{"x":4438,"y":3236},{"x":4658,"y":3402}]},{"x":4493,"y":3267,"vertices":[{"x":4658,"y":3402},{"x":4438,"y":3236},{"x":4383,"y":3164}]},{"x":4434,"y":3094,"vertices":[{"x":4322,"y":2769},{"x":4658,"y":3402},{"x":4383,"y":3164},{"x":4322,"y":3108}]},{"x":4290,"y":2974,"vertices":[{"x":4322,"y":2769},{"x":4322,"y":3108},{"x":4226,"y":3046}]},{"x":4229,"y":2941,"vertices":[{"x":4322,"y":2769},{"x":4226,"y":3046},{"x":4140,"y":3007}]},{"x":4163,"y":2914,"vertices":[{"x":4322,"y":2769},{"x":4140,"y":3007},{"x":4028,"y":2966}]},{"x":4076,"y":2889,"vertices":[{"x":4322,"y":2769},{"x":4028,"y":2966},{"x":3878,"y":2932}]},{"x":3852,"y":2805,"vertices":[{"x":3426,"y":2697},{"x":4322,"y":2769},{"x":3878,"y":2932},{"x":3746,"y":2917}]},{"x":3586,"y":2847,"vertices":[{"x":3426,"y":2697},{"x":3746,"y":2917},{"x":3585,"y":2927}]},{"x":3479,"y":2866,"vertices":[{"x":3426,"y":2697},{"x":3585,"y":2927},{"x":3426,"y":2973}]},{"x":3383,"y":2905,"vertices":[{"x":3426,"y":2697},{"x":3426,"y":2973},{"x":3297,"y":3045}]},{"x":3286,"y":2970,"vertices":[{"x":3426,"y":2697},{"x":3297,"y":3045},{"x":3136,"y":3167}]},{"x":2707,"y":3574,"vertices":[{"x":2836,"y":3455},{"x":2694,"y":3593},{"x":2591,"y":3673}]},{"x":2723,"y":3314,"vertices":[{"x":2397,"y":3329},{"x":3426,"y":2697},{"x":3136,"y":3167},{"x":2836,"y":3455},{"x":2591,"y":3673},{"x":2483,"y":3722},{"x":2397,"y":3730},{"x":2296,"y":3705},{"x":2203,"y":3653},{"x":2104,"y":3579}]},{"x":2162,"y":3466,"vertices":[{"x":2397,"y":3329},{"x":2104,"y":3579},{"x":1985,"y":3491}]},{"x":1969,"y":3326,"vertices":[{"x":1556,"y":3154},{"x":2397,"y":3329},{"x":1985,"y":3491},{"x":1855,"y":3418}]},{"x":1706,"y":3316,"vertices":[{"x":1556,"y":3154},{"x":1855,"y":3418},{"x":1708,"y":3376}]},{"x":1620,"y":3300,"vertices":[{"x":1556,"y":3154},{"x":1708,"y":3376},{"x":1597,"y":3370}]},{"x":1532,"y":3304,"vertices":[{"x":1556,"y":3154},{"x":1597,"y":3370},{"x":1444,"y":3388}]},{"x":1602,"y":2962,"vertices":[{"x":1556,"y":3154},{"x":1556,"y":2897},{"x":1694,"y":2836}]},{"x":1690,"y":2920,"vertices":[{"x":1556,"y":3154},{"x":1694,"y":2836},{"x":1821,"y":2769}]},{"x":1910,"y":2873,"vertices":[{"x":2296,"y":2769},{"x":1556,"y":3154},{"x":1821,"y":2769},{"x":1922,"y":2697}]},{"x":2074,"y":2695,"vertices":[{"x":2296,"y":2769},{"x":1922,"y":2697},{"x":2005,"y":2618}]},{"x":2119,"y":2641,"vertices":[{"x":2296,"y":2769},{"x":2005,"y":2618},{"x":2056,"y":2536}]},{"x":2149,"y":2581,"vertices":[{"x":2296,"y":2769},{"x":2056,"y":2536},{"x":2096,"y":2439}]},{"x":2225,"y":2390,"vertices":[{"x":2296,"y":1990},{"x":2296,"y":2769},{"x":2096,"y":2439},{"x":2115,"y":2342}]},{"x":2177,"y":2199,"vertices":[{"x":2296,"y":1990},{"x":2115,"y":2342},{"x":2120,"y":2266}]},{"x":2179,"y":2132,"vertices":[{"x":2120,"y":2266},{"x":2120,"y":2141},{"x":2296,"y":1990}]},{"x":1244,"y":3213,"vertices":[{"x":1556,"y":3154},{"x":1444,"y":3388},{"x":1272,"y":3428},{"x":1133,"y":3458},{"x":1012,"y":3458},{"x":935,"y":3428},{"x":902,"y":3388},{"x":891,"y":3329},{"x":891,"y":3283},{"x":909,"y":3227},{"x":930,"y":3190},{"x":966,"y":3154},{"x":1012,"y":3116},{"x":1089,"y":3073},{"x":1188,"y":3031},{"x":1325,"y":2980},{"x":1556,"y":2897}]},{"x":2201,"y":2071,"vertices":[{"x":2366,"y":1880},{"x":2124,"y":2224},{"x":2112,"y":2110}]},{"x":2189,"y":1981,"vertices":[{"x":2366,"y":1880},{"x":2112,"y":2110},{"x":2089,"y":1954}]},{"x":2024,"y":1612,"vertices":[{"x":2053,"y":1770},{"x":2023,"y":1619},{"x":1997,"y":1446}]},{"x":2127,"y":1373,"vertices":[{"x":2053,"y":1770},{"x":1997,"y":1446},{"x":1997,"y":1307},{"x":2023,"y":1204},{"x":2068,"y":1145},{"x":2114,"y":1117},{"x":2180,"y":1117},{"x":2246,"y":1163},{"x":2322,"y":1259}]},{"x":2257,"y":1653,"vertices":[{"x":2366,"y":1880},{"x":2089,"y":1954},{"x":2053,"y":1770},{"x":2322,"y":1259},{"x":2426,"y":1388}]},{"x":2464,"y":1623,"vertices":[{"x":2366,"y":1880},{"x":2426,"y":1388},{"x":2601,"y":1601}]},{"x":2564,"y":1728,"vertices":[{"x":2366,"y":1880},{"x":2601,"y":1601},{"x":2725,"y":1704}]},{"x":2653,"y":1793,"vertices":[{"x":2366,"y":1880},{"x":2725,"y":1704},{"x":2867,"y":1794}]},{"x":2851,"y":1905,"vertices":[{"x":3288,"y":2044},{"x":2366,"y":1880},{"x":2867,"y":1794},{"x":2990,"y":1846}]},{"x":3139,"y":1923,"vertices":[{"x":3288,"y":2044},{"x":2990,"y":1846},{"x":3138,"y":1880}]},{"x":3238,"y":1939,"vertices":[{"x":3288,"y":2044},{"x":3138,"y":1880},{"x":3288,"y":1892}]},{"x":3361,"y":1933,"vertices":[{"x":3288,"y":2044},{"x":3288,"y":1892},{"x":3508,"y":1862}]},{"x":3630,"y":1893,"vertices":[{"x":4027,"y":1812},{"x":3288,"y":2044},{"x":3508,"y":1862},{"x":3685,"y":1812}]},{"x":3852,"y":1787,"vertices":[{"x":4027,"y":1812},{"x":3685,"y":1812},{"x":3845,"y":1738}]},{"x":3940,"y":1737,"vertices":[{"x":4027,"y":1812},{"x":3845,"y":1738},{"x":3947,"y":1660}]},{"x":4000,"y":1679,"vertices":[{"x":4027,"y":1812},{"x":3947,"y":1660},{"x":4027,"y":1566}]},{"x":4137,"y":1561,"vertices":[{"x":4347,"y":1388},{"x":4027,"y":1812},{"x":4027,"y":1566},{"x":4074,"y":1464}]},{"x":4173,"y":1398,"vertices":[{"x":4347,"y":1388},{"x":4074,"y":1464},{"x":4097,"y":1342}]},{"x":4180,"y":1321,"vertices":[{"x":4347,"y":1388},{"x":4097,"y":1342},{"x":4097,"y":1233}]},{"x":4522,"y":1240,"vertices":[{"x":4347,"y":1388},{"x":4548,"y":1098},{"x":4670,"y":1233}]},{"x":4648,"y":1393,"vertices":[{"x":4828,"y":1566},{"x":4347,"y":1388},{"x":4670,"y":1233},{"x":4828,"y":1351}]},{"x":4885,"y":1448,"vertices":[{"x":4828,"y":1566},{"x":4828,"y":1351},{"x":5000,"y":1426}]},{"x":5013,"y":1489,"vertices":[{"x":4828,"y":1566},{"x":5000,"y":1426},{"x":5210,"y":1475}]},{"x":5685,"y":1515,"vertices":[{"x":5551,"y":1498},{"x":5706,"y":1498},{"x":5797,"y":1549}]},{"x":5309,"y":1527,"vertices":[{"x":5797,"y":1549},{"x":4828,"y":1566},{"x":5210,"y":1475},{"x":5551,"y":1498}]},{"x":4279,"y":1072,"vertices":[{"x":4347,"y":1388},{"x":4097,"y":1233},{"x":4074,"y":1000},{"x":4068,"y":911},{"x":4080,"y":847},{"x":4126,"y":805},{"x":4192,"y":794},{"x":4275,"y":805},{"x":4347,"y":842},{"x":4405,"y":899},{"x":4452,"y":961},{"x":4548,"y":1098}]},{"x":5261,"y":709,"vertices":[{"x":5387,"y":814},{"x":5261,"y":722},{"x":5135,"y":592}]},{"x":5334,"y":538,"vertices":[{"x":4866,"y":1},{"x":5945,"y":856},{"x":5694,"y":870},{"x":5503,"y":860},{"x":5387,"y":814},{"x":5135,"y":592},{"x":4980,"y":447}]},{"x":4877,"y":259,"vertices":[{"x":4866,"y":1},{"x":4980,"y":447},{"x":4786,"y":328}]},{"x":4740,"y":194,"vertices":[{"x":4866,"y":1},{"x":4786,"y":328},{"x":4568,"y":254}]},{"x":4426,"y":96,"vertices":[{"x":3917,"y":1},{"x":4866,"y":1},{"x":4568,"y":254},{"x":4345,"y":228}]},{"x":4118,"y":157,"vertices":[{"x":3917,"y":1},{"x":4345,"y":228},{"x":4093,"y":243}]},{"x":3976,"y":173,"vertices":[{"x":3917,"y":1},{"x":4093,"y":243},{"x":3917,"y":276}]},{"x":3851,"y":209,"vertices":[{"x":3917,"y":1},{"x":3917,"y":276},{"x":3720,"y":350}]},{"x":3470,"y":300,"vertices":[{"x":2865,"y":421},{"x":3917,"y":1},{"x":3720,"y":350},{"x":3563,"y":482}]},{"x":3150,"y":639,"vertices":[{"x":3027,"y":961},{"x":2909,"y":834},{"x":2865,"y":421},{"x":3563,"y":482},{"x":3475,"y":639}]},{"x":3265,"y":932,"vertices":[{"x":3257,"y":1207},{"x":3027,"y":961},{"x":3475,"y":639},{"x":3434,"y":825}]},{"x":3360,"y":1086,"vertices":[{"x":3434,"y":825},{"x":3416,"y":1066},{"x":3407,"y":1132},{"x":3382,"y":1193},{"x":3354,"y":1226},{"x":3319,"y":1241},{"x":3294,"y":1234},{"x":3257,"y":1207}]},{"x":1686,"y":4089,"vertices":[{"x":1465,"y":4237},{"x":1700,"y":3940},{"x":1893,"y":4089}]},{"x":1994,"y":4308,"vertices":[{"x":2532,"y":4603},{"x":1465,"y":4237},{"x":1893,"y":4089},{"x":2125,"y":4197}]},{"x":2365,"y":4346,"vertices":[{"x":2532,"y":4603},{"x":2125,"y":4197},{"x":2438,"y":4237}]},{"x":2565,"y":4351,"vertices":[{"x":2532,"y":4603},{"x":2438,"y":4237},{"x":2725,"y":4212}]},{"x":3136,"y":4145,"vertices":[{"x":2980,"y":4132},{"x":3214,"y":4000},{"x":3214,"y":4302}]},{"x":2858,"y":4336,"vertices":[{"x":3214,"y":4302},{"x":2532,"y":4603},{"x":2725,"y":4212},{"x":2980,"y":4132}]},{"x":2884,"y":666,"vertices":[{"x":2899,"y":378},{"x":2998,"y":918},{"x":2755,"y":702}]},{"x":2746,"y":556,"vertices":[{"x":2899,"y":378},{"x":2755,"y":702},{"x":2584,"y":587}]},{"x":2634,"y":494,"vertices":[{"x":2899,"y":378},{"x":2584,"y":587},{"x":2420,"y":517}]},{"x":2411,"y":355,"vertices":[{"x":2091,"y":141},{"x":2899,"y":378},{"x":2420,"y":517},{"x":2197,"y":492}]},{"x":2104,"y":387,"vertices":[{"x":2091,"y":141},{"x":2197,"y":492},{"x":2023,"y":529}]},{"x":1976,"y":439,"vertices":[{"x":2091,"y":141},{"x":2023,"y":529},{"x":1815,"y":647}]},{"x":1671,"y":625,"vertices":[{"x":1203,"y":948},{"x":2091,"y":141},{"x":1815,"y":647},{"x":1616,"y":838}]},{"x":1438,"y":931,"vertices":[{"x":1203,"y":948},{"x":1616,"y":838},{"x":1495,"y":1006}]},{"x":1377,"y":1039,"vertices":[{"x":1203,"y":948},{"x":1495,"y":1006},{"x":1432,"y":1163}]},{"x":1347,"y":1157,"vertices":[{"x":1203,"y":948},{"x":1432,"y":1163},{"x":1406,"y":1360}]},{"x":1266,"y":1476,"vertices":[{"x":1154,"y":2027},{"x":1203,"y":948},{"x":1406,"y":1360},{"x":1418,"y":1516}]},{"x":1348,"y":1774,"vertices":[{"x":1154,"y":2027},{"x":1418,"y":1516},{"x":1473,"y":1778}]},{"x":1378,"y":1914,"vertices":[{"x":1473,"y":1778},{"x":1507,"y":1937},{"x":1154,"y":2027}]},{"x":948,"y":2424,"vertices":[{"x":1,"y":2893},{"x":1154,"y":2027},{"x":1507,"y":1937},{"x":1520,"y":2090},{"x":1507,"y":2245},{"x":1465,"y":2377},{"x":1419,"y":2436},{"x":1282,"y":2524},{"x":1054,"y":2622},{"x":781,"y":2733}]},{"x":467,"y":2816,"vertices":[{"x":1,"y":2893},{"x":781,"y":2733},{"x":620,"y":2821}]},{"x":369,"y":2879,"vertices":[{"x":1,"y":2893},{"x":620,"y":2821},{"x":485,"y":2922}]},{"x":294,"y":2950,"vertices":[{"x":1,"y":2893},{"x":485,"y":2922},{"x":396,"y":3035}]},{"x":246,"y":3034,"vertices":[{"x":1,"y":2893},{"x":396,"y":3035},{"x":340,"y":3173}]},{"x":223,"y":3134,"vertices":[{"x":1,"y":2893},{"x":340,"y":3173},{"x":329,"y":3337}]},{"x":233,"y":3254,"vertices":[{"x":1,"y":2893},{"x":329,"y":3337},{"x":370,"y":3532}]},{"x":287,"y":3638,"vertices":[{"x":432,"y":4381},{"x":1,"y":2893},{"x":370,"y":3532},{"x":432,"y":3693}]},{"x":453,"y":3962,"vertices":[{"x":432,"y":4381},{"x":432,"y":3693},{"x":496,"y":3812}]},{"x":497,"y":4030,"vertices":[{"x":432,"y":4381},{"x":496,"y":3812},{"x":562,"y":3897}]},{"x":549,"y":4081,"vertices":[{"x":432,"y":4381},{"x":562,"y":3897},{"x":652,"y":3964}]},{"x":615,"y":4115,"vertices":[{"x":432,"y":4381},{"x":652,"y":3964},{"x":760,"y":3999}]},{"x":690,"y":4126,"vertices":[{"x":432,"y":4381},{"x":760,"y":3999},{"x":877,"y":3999}]},{"x":955,"y":4184,"vertices":[{"x":1465,"y":4237},{"x":432,"y":4381},{"x":877,"y":3999},{"x":1031,"y":3961}]},{"x":1398,"y":4010,"vertices":[{"x":1031,"y":3961},{"x":1203,"y":3905},{"x":1402,"y":3859},{"x":1562,"y":3868},{"x":1700,"y":3940},{"x":1465,"y":4237}]},{"x":6596,"y":3948,"vertices":[{"x":6862,"y":4402},{"x":6556,"y":4209},{"x":6336,"y":4044},{"x":6257,"y":3952},{"x":6257,"y":3858},{"x":6294,"y":3774},{"x":6385,"y":3690},{"x":6538,"y":3638},{"x":6793,"y":3609}]},{"x":6937,"y":3871,"vertices":[{"x":6862,"y":4402},{"x":6793,"y":3609},{"x":7157,"y":3601}]},{"x":7310,"y":4135,"vertices":[{"x":7773,"y":4234},{"x":7254,"y":4710},{"x":6862,"y":4402},{"x":7157,"y":3601},{"x":7490,"y":3590}]},{"x":7646,"y":3786,"vertices":[{"x":7773,"y":4234},{"x":7490,"y":3590},{"x":7676,"y":3533}]},{"x":7911,"y":3652,"vertices":[{"x":8282,"y":3205},{"x":7773,"y":4234},{"x":7676,"y":3533},{"x":7851,"y":3422}]},{"x":8042,"y":3290,"vertices":[{"x":8282,"y":3205},{"x":7851,"y":3422},{"x":7992,"y":3243}]},{"x":8115,"y":3165,"vertices":[{"x":8282,"y":3205},{"x":7992,"y":3243},{"x":8072,"y":3048}]},{"x":8150,"y":3046,"vertices":[{"x":8282,"y":3205},{"x":8072,"y":3048},{"x":8095,"y":2884}]},{"x":8199,"y":2060,"vertices":[{"x":8282,"y":635},{"x":8282,"y":3205},{"x":8095,"y":2884},{"x":8095,"y":1586}]},{"x":8146,"y":1210,"vertices":[{"x":8282,"y":635},{"x":8095,"y":1586},{"x":8062,"y":1410}]},{"x":8118,"y":1109,"vertices":[{"x":8282,"y":635},{"x":8062,"y":1410},{"x":8009,"y":1282}]},{"x":8058,"y":1010,"vertices":[{"x":8282,"y":635},{"x":8009,"y":1282},{"x":7884,"y":1112}]},{"x":7964,"y":916,"vertices":[{"x":8282,"y":635},{"x":7884,"y":1112},{"x":7725,"y":1002}]},{"x":7667,"y":718,"vertices":[{"x":7039,"y":500},{"x":8282,"y":635},{"x":7725,"y":1002},{"x":7553,"y":927}]},{"x":7334,"y":772,"vertices":[{"x":7039,"y":500},{"x":7553,"y":927},{"x":7411,"y":889}]},{"x":7218,"y":753,"vertices":[{"x":7039,"y":500},{"x":7411,"y":889},{"x":7205,"y":869}]},{"x":6410,"y":703,"vertices":[{"x":7205,"y":869},{"x":5664,"y":869},{"x":5631,"y":566},{"x":7039,"y":500}]},{"x":3651,"y":3654,"vertices":[{"x":3324,"y":3912},{"x":3612,"y":3651},{"x":3781,"y":3526},{"x":3835,"y":3508},{"x":3891,"y":3505}]},{"x":3808,"y":3929,"vertices":[{"x":3324,"y":3912},{"x":3891,"y":3505},{"x":3990,"y":3562},{"x":4051,"y":3639},{"x":4079,"y":3744},{"x":4079,"y":3995},{"x":4061,"y":4217},{"x":4036,"y":4418}]},{"x":3805,"y":4295,"vertices":[{"x":3324,"y":3912},{"x":4036,"y":4418},{"x":4054,"y":4556}]},{"x":4401,"y":5146,"vertices":[{"x":4593,"y":5316},{"x":4516,"y":5527},{"x":4127,"y":4685},{"x":4259,"y":4818}]},{"x":4507,"y":4998,"vertices":[{"x":4397,"y":4918},{"x":4527,"y":5009},{"x":4597,"y":5067}]},{"x":4507,"y":5087,"vertices":[{"x":4597,"y":5067},{"x":4632,"y":5109},{"x":4656,"y":5152},{"x":4656,"y":5197},{"x":4593,"y":5316},{"x":4259,"y":4818},{"x":4397,"y":4918}]},{"x":3741,"y":4871,"vertices":[{"x":3612,"y":5531},{"x":2962,"y":4182},{"x":3324,"y":3912},{"x":4054,"y":4556},{"x":4127,"y":4685},{"x":4516,"y":5527},{"x":4506,"y":5722}]},{"x":4237,"y":5929,"vertices":[{"x":4563,"y":6522},{"x":3612,"y":5531},{"x":4506,"y":5722},{"x":4550,"y":5917}]},{"x":4582,"y":6168,"vertices":[{"x":4563,"y":6522},{"x":4550,"y":5917},{"x":4634,"y":6066}]},{"x":4636,"y":6244,"vertices":[{"x":4563,"y":6522},{"x":4634,"y":6066},{"x":4711,"y":6144}]},{"x":4694,"y":6294,"vertices":[{"x":4563,"y":6522},{"x":4711,"y":6144},{"x":4808,"y":6216}]},{"x":4771,"y":6335,"vertices":[{"x":4563,"y":6522},{"x":4808,"y":6216},{"x":4942,"y":6266}]},{"x":4875,"y":6362,"vertices":[{"x":4563,"y":6522},{"x":4942,"y":6266},{"x":5121,"y":6297}]},{"x":5257,"y":6442,"vertices":[{"x":5946,"y":6555},{"x":4563,"y":6522},{"x":5121,"y":6297},{"x":5317,"y":6266}]},{"x":5583,"y":6335,"vertices":[{"x":5946,"y":6555},{"x":5317,"y":6266},{"x":5487,"y":6184}]},{"x":5683,"y":6275,"vertices":[{"x":5946,"y":6555},{"x":5487,"y":6184},{"x":5617,"y":6086}]},{"x":5844,"y":5850,"vertices":[{"x":5730,"y":5968},{"x":5856,"y":5834},{"x":5946,"y":5749}]},{"x":5996,"y":5818,"vertices":[{"x":5730,"y":5968},{"x":5946,"y":5749},{"x":6021,"y":5714},{"x":6087,"y":5718},{"x":6252,"y":5784}]},{"x":6160,"y":5864,"vertices":[{"x":5730,"y":5968},{"x":6252,"y":5784},{"x":6498,"y":5841}]},{"x":6450,"y":6105,"vertices":[{"x":7732,"y":5868},{"x":5946,"y":6555},{"x":5617,"y":6086},{"x":5730,"y":5968},{"x":6498,"y":5841},{"x":6753,"y":5841}]},{"x":7147,"y":5834,"vertices":[{"x":7732,"y":5868},{"x":6753,"y":5841},{"x":6957,"y":5792}]},{"x":7269,"y":5790,"vertices":[{"x":7732,"y":5868},{"x":6957,"y":5792},{"x":7117,"y":5711}]},{"x":7361,"y":5730,"vertices":[{"x":7732,"y":5868},{"x":7117,"y":5711},{"x":7233,"y":5610}]},{"x":7433,"y":5647,"vertices":[{"x":7732,"y":5868},{"x":7233,"y":5610},{"x":7333,"y":5464}]},{"x":7483,"y":5549,"vertices":[{"x":7732,"y":5868},{"x":7333,"y":5464},{"x":7383,"y":5314}]},{"x":7633,"y":5219,"vertices":[{"x":7813,"y":4537},{"x":7732,"y":5868},{"x":7383,"y":5314},{"x":7403,"y":5166}]},{"x":7540,"y":4922,"vertices":[{"x":7813,"y":4537},{"x":7403,"y":5166},{"x":7403,"y":5062}]},{"x":7529,"y":4838,"vertices":[{"x":7813,"y":4537},{"x":7403,"y":5062},{"x":7372,"y":4916}]},{"x":7493,"y":4745,"vertices":[{"x":7813,"y":4537},{"x":7372,"y":4916},{"x":7294,"y":4782}]},{"x":7427,"y":4653,"vertices":[{"x":7294,"y":4782},{"x":7174,"y":4641},{"x":7813,"y":4537}]},{"x":7951,"y":1993,"vertices":[{"x":7824,"y":1909},{"x":8119,"y":1909},{"x":8119,"y":2076},{"x":7824,"y":2076},{"x":7779,"y":2061},{"x":7779,"y":1932}]},{"x":7598,"y":2563,"vertices":[{"x":7700,"y":2479},{"x":7745,"y":2509},{"x":7745,"y":2622},{"x":7700,"y":2646},{"x":7457,"y":2646},{"x":7457,"y":2479}]}],"path":[{"x":4649,"y":2844,"vertices":[{"x":5840,"y":1198},{"x":5314,"y":1163},{"x":4567,"y":592},{"x":3856,"y":705},{"x":3624,"y":1481},{"x":3122,"y":1481},{"x":2348,"y":874},{"x":1739,"y":1032},{"x":1691,"y":1481},{"x":1789,"y":2230},{"x":1510,"y":2650},{"x":808,"y":3019},{"x":695,"y":3328},{"x":858,"y":3637},{"x":1263,"y":3664},{"x":1843,"y":3765},{"x":2429,"y":3991},{"x":3255,"y":3637},{"x":3779,"y":3239},{"x":4216,"y":3370},{"x":4332,"y":3750},{"x":4356,"y":4506},{"x":4542,"y":4823},{"x":5000,"y":5069},{"x":4873,"y":5874},{"x":5165,"y":6019},{"x":5670,"y":5654},{"x":6140,"y":5514},{"x":6703,"y":5573},{"x":7107,"y":5285},{"x":7024,"y":4904},{"x":6069,"y":4306},{"x":5920,"y":3839},{"x":6250,"y":3480},{"x":7387,"y":3325},{"x":7785,"y":2900},{"x":7770,"y":1421},{"x":7506,"y":1216},{"x":6063,"y":1198}]}],"checkpoint":[{"x":5831,"y":1188,"vertices":[{"x":0,"y":0},{"x":0,"y":-710},{"x":102,"y":-710},{"x":102,"y":0}],"index":0}],"spawn":[{"x":6717,"y":1188,"angle":-3.141592653589793}]}}
